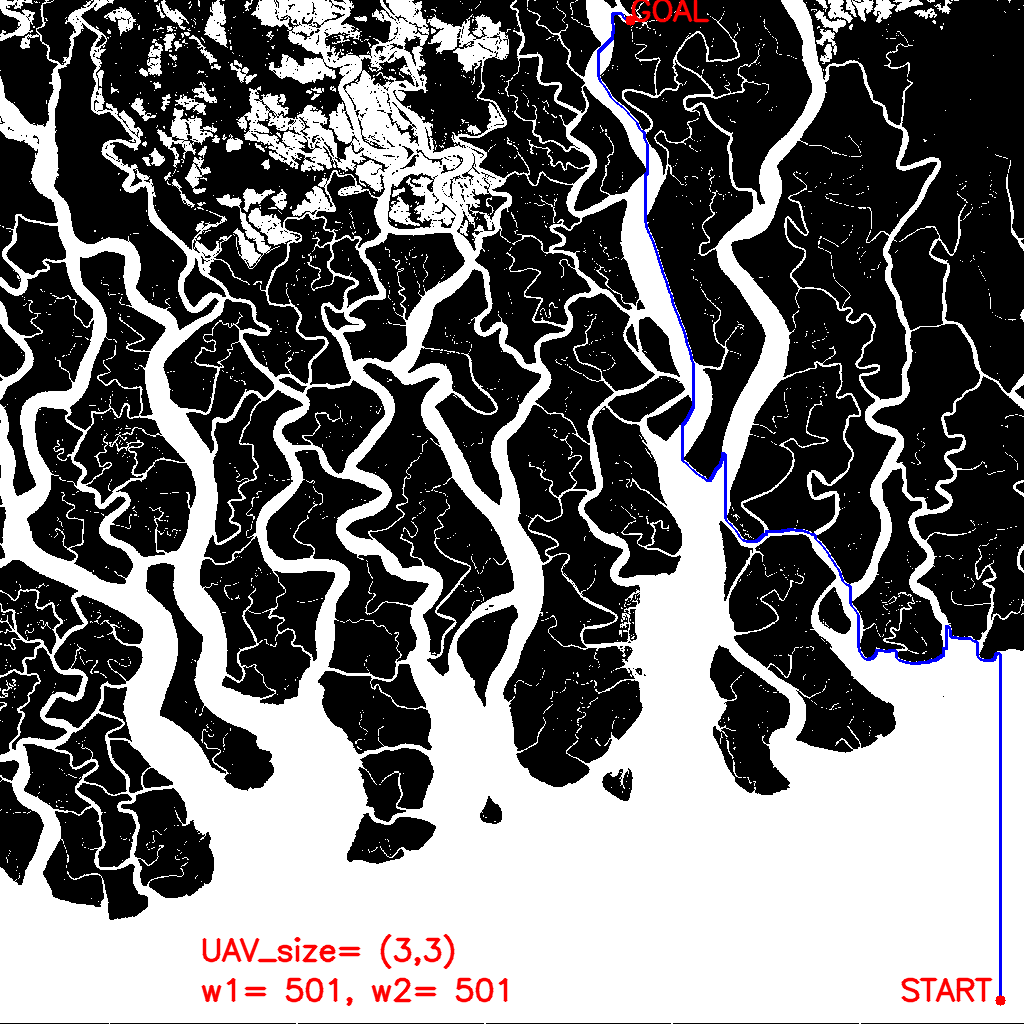
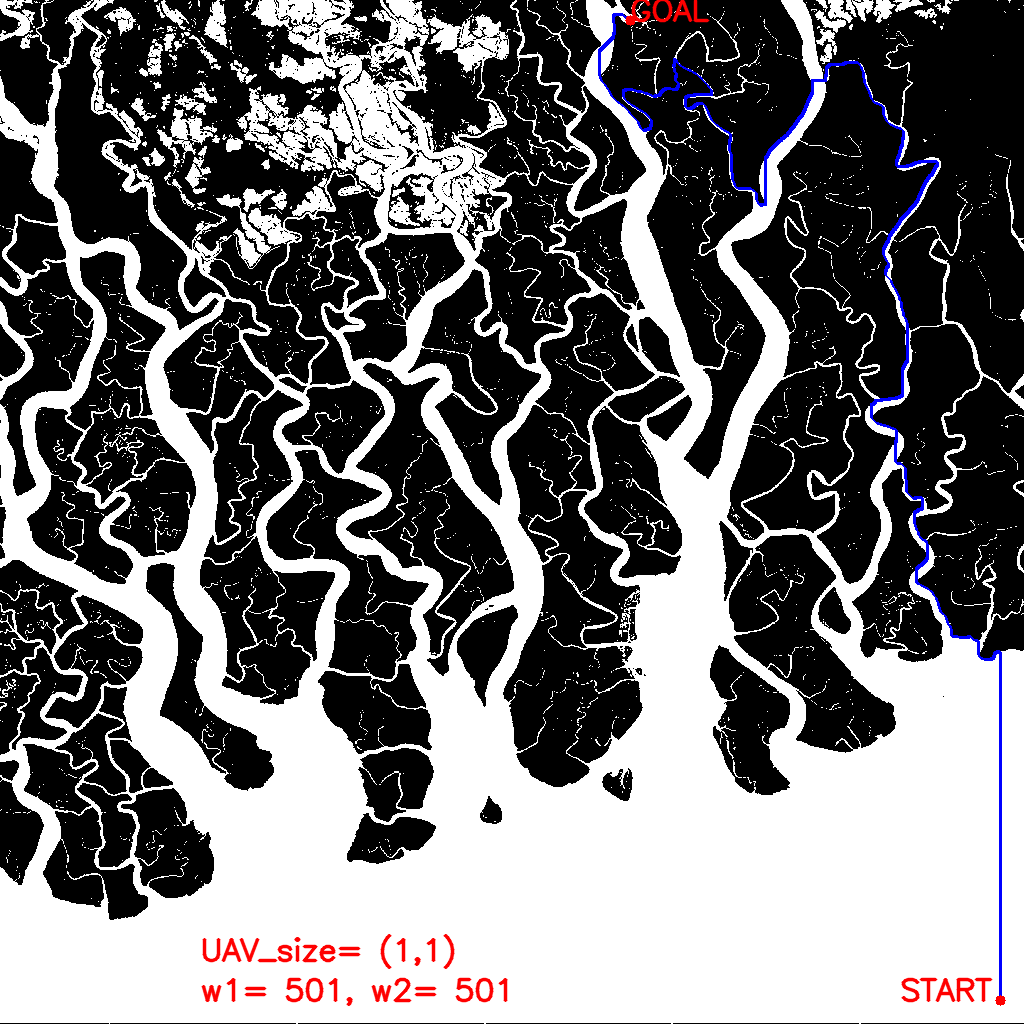
Added Image results

diff --git a/AMRA_star.py b/AMRA_star.py
@@ -269,7 +269,7 @@ class AMRA_Star:
         plt.figure()
         plt.imshow(plot_map)
         plt.show()
-        output_pics = f'Sunderbans_output_w={self.w1}.png'
+        output_pics = f'Sunderbans_output_extended_w={self.w1}.png'
         cv2.imwrite(output_pics, plot_map)
 
     def get_paths(self):
@@ -362,7 +362,7 @@ class AMRA_Star:
         self.current_queue_index = 1
 
         try:
-            while self.w1 > 2 and self.w2 > 2:
+            while self.w1 > 1 and self.w2 > 1:
                 self.video_map = np.copy(self.color_map)
                 # Annotate(self.video_map, self.start, self.goal, (2*self.buffer[0]+1, 2*self.buffer[0]+1), self.w1, self.w2)
                 # self.num_expansions = 0
@@ -461,7 +461,7 @@ heuristics = [euclidean, euclidean_2, manhattan, manhattan]
 heuristic_to_res = {0: 0, 1: 1, 2: 1, 3: 1}
 start = [1000, 1000]
 goal = [20, 630]
-size_of_UAV = (1, 1)
+size_of_UAV = (3, 3)
 amra_star_solver = AMRA_Star(map, image, resolutions, heuristics, heuristic_to_res, start, goal, size_of_UAV, w1=501, w2=501)
 # Cost_map = amra_star_solver.backward_dijkstra_calculator(goal)
 amra_star_solver.Main()
